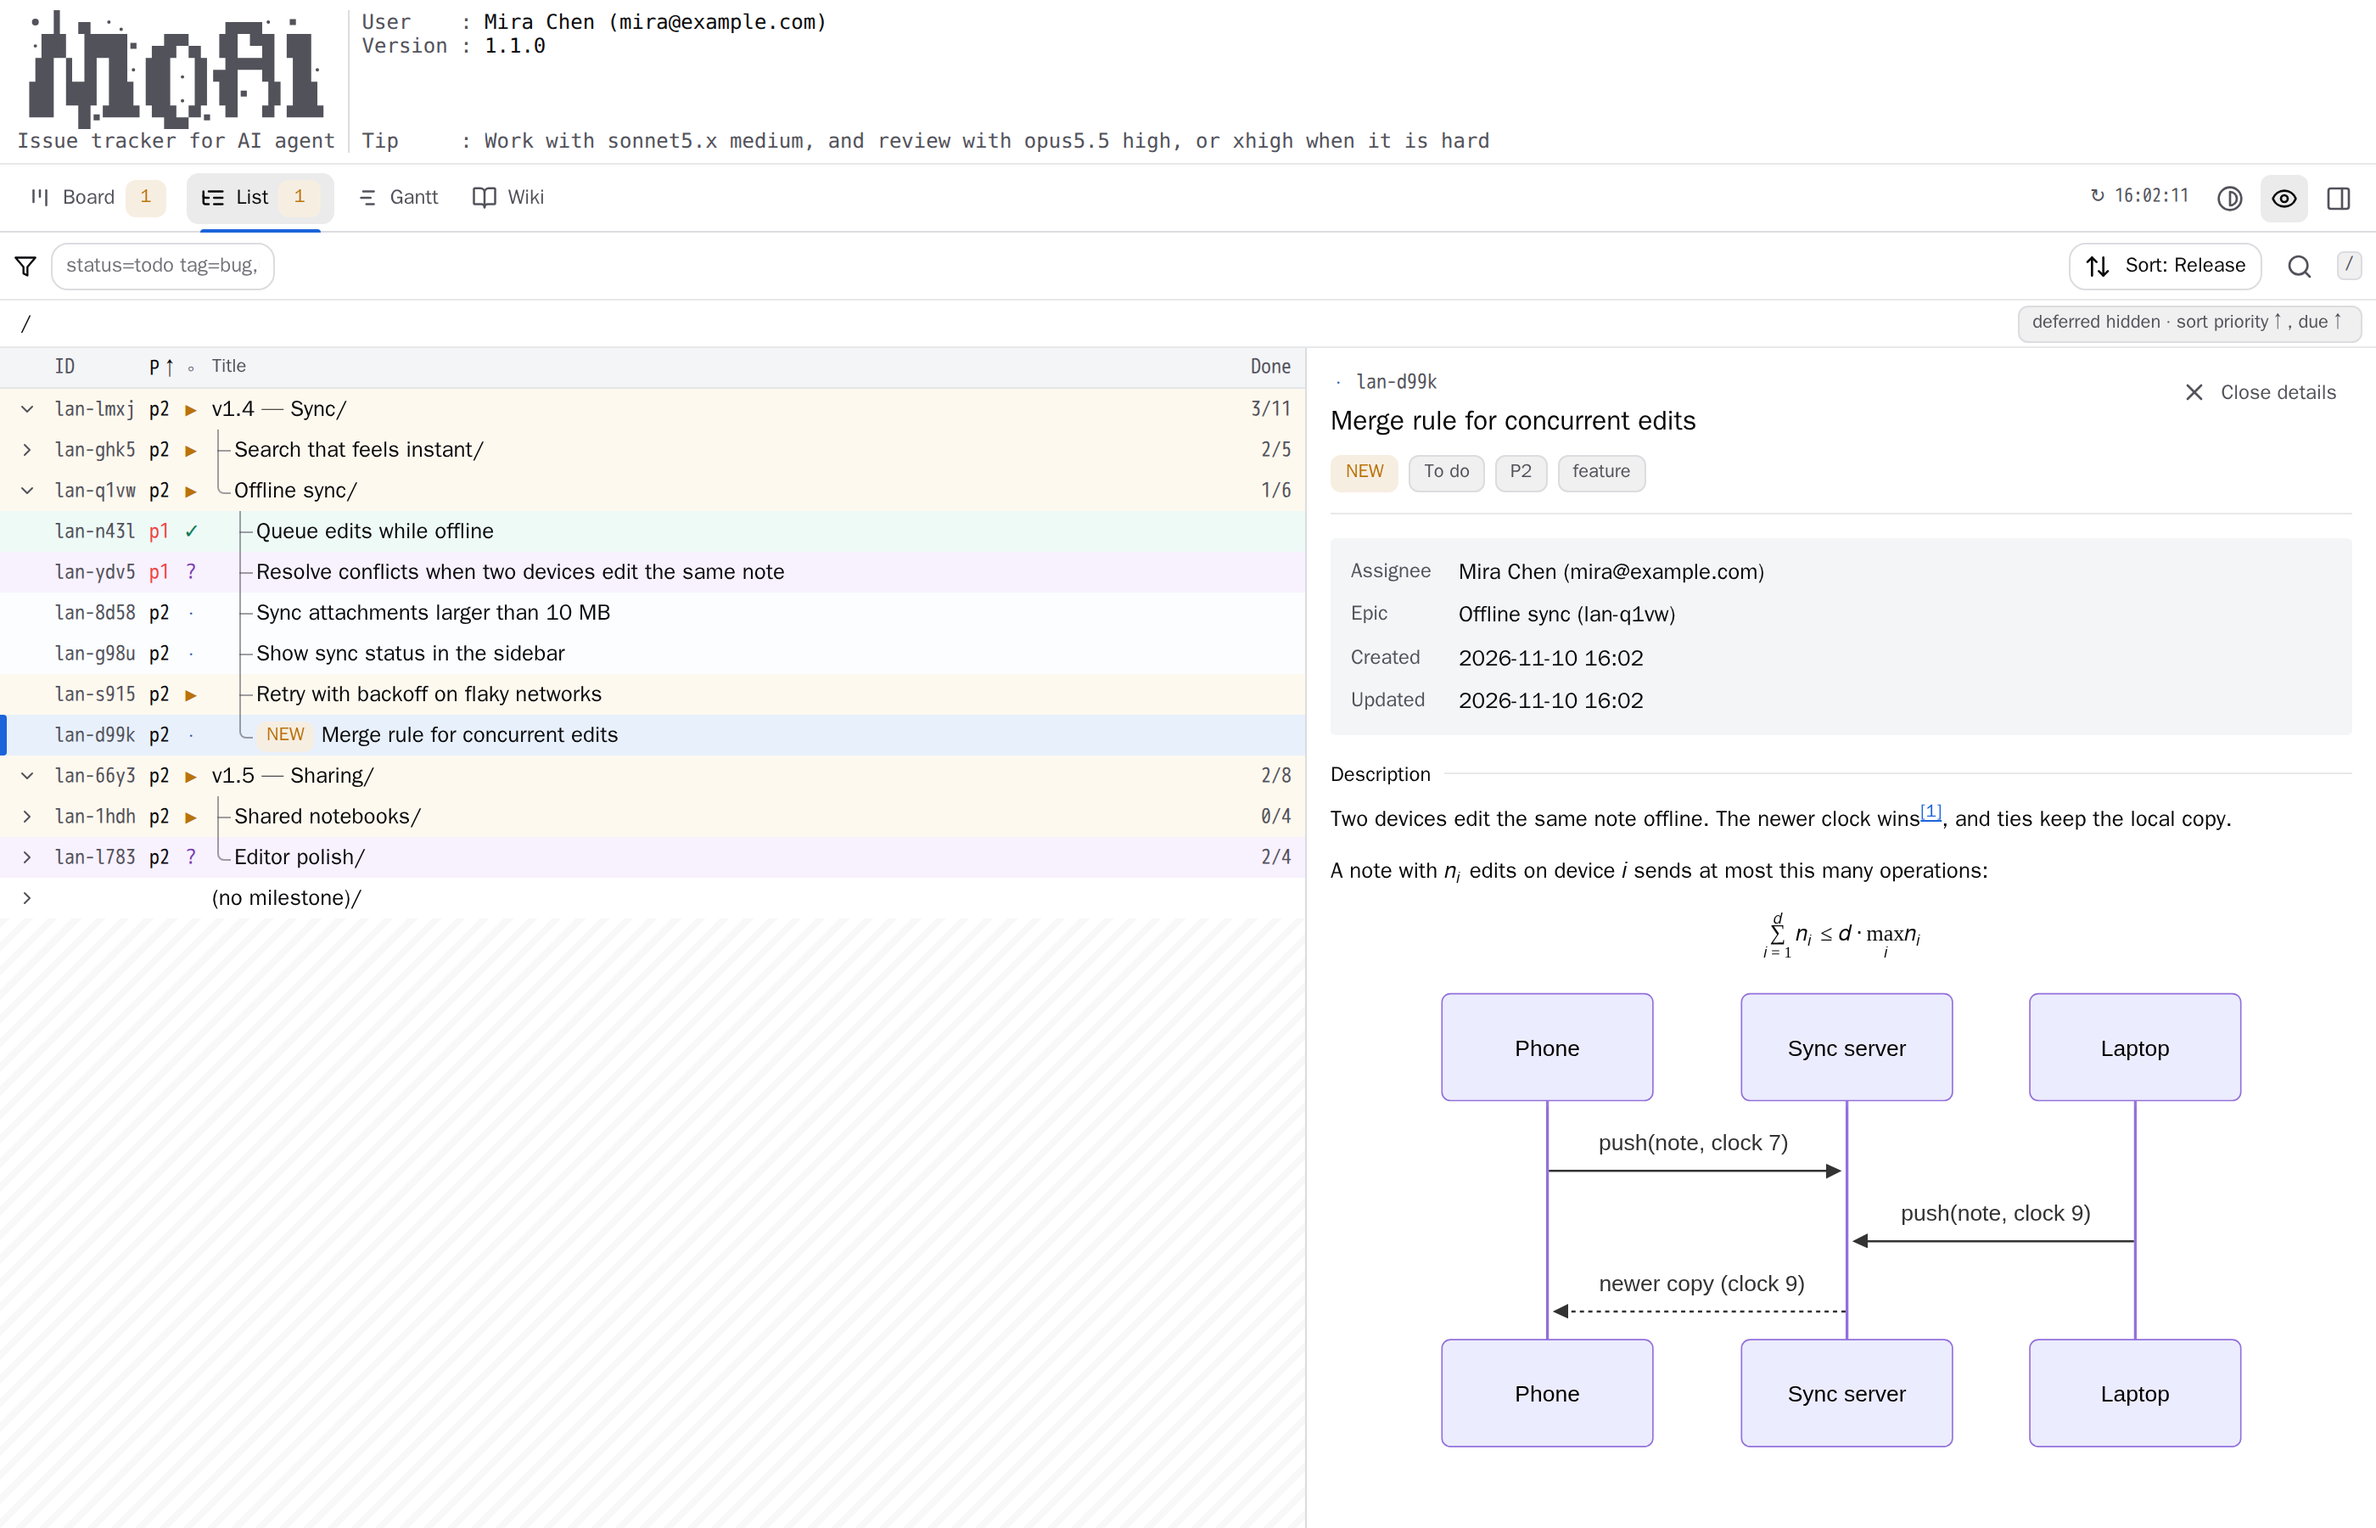
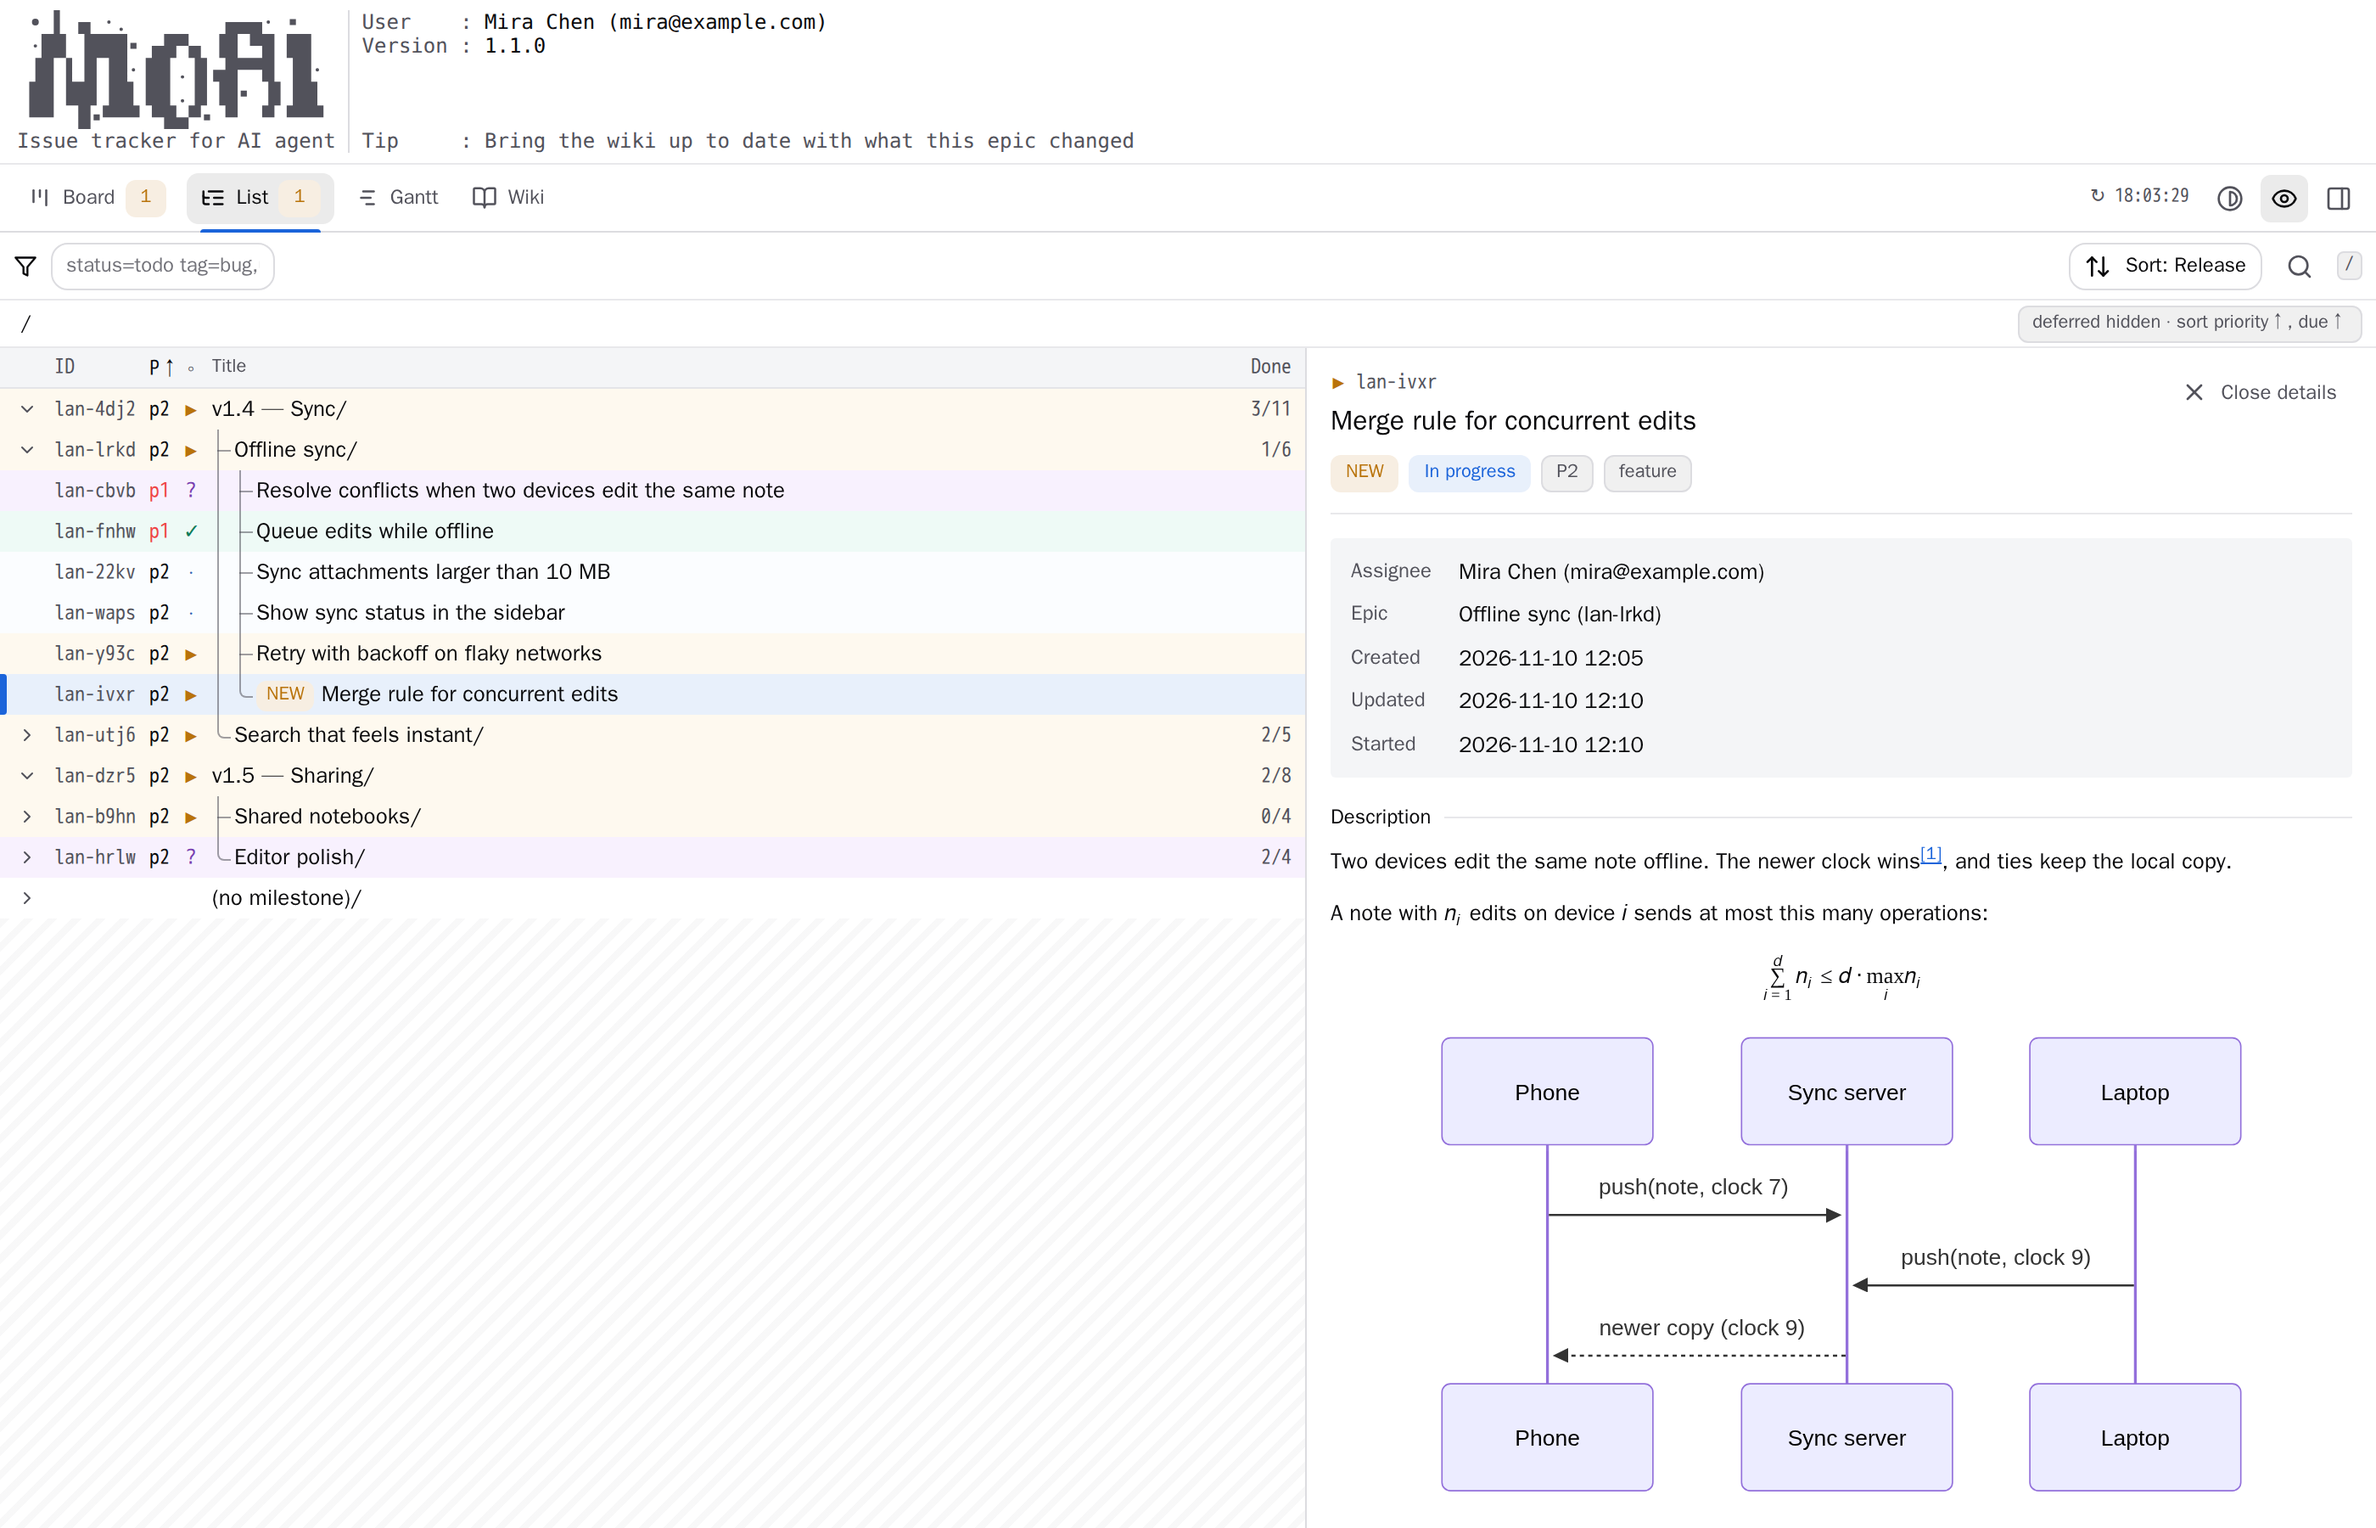
docs(release-posts): show markdown history in v1.1.0 (moai-1f3p.n23)

diff --git a/release-posts/v1.1.0/post.md b/release-posts/v1.1.0/post.md
@@ -1,10 +1,12 @@
 ## moai v1.1.0
 ### What's new
+- Web detail history renders notes as markdown, including footnotes, math, Mermaid, pictures and links
+- Agent guidance now explains the supported markdown and pictures, when to use them, and what terminals show
+- A successful human-facing `moai update` reminds you to run `moai skill install` and `moai init` in each project
 - The web viewer supports footnotes, MathML math, Mermaid diagrams, CJK-friendly emphasis and file snippets in issue bodies and wiki pages
 - The explorer and `moai show` render numbered footnotes, math source and marked Mermaid code blocks
 - `GET /api/snippet` reads a permitted text file or region for the selected checkout, with the shared snippet path and sensitive-file rules
-- Web issue bodies and wiki pages use markdown-it and CommonMark
-- The web page loads third-party markdown and diagram code in `/vendor.js` before its own app bundle
+- …and 2 more in the release notes
 
 Release notes: <https://github.com/buzzni/moai/releases/tag/v1.1.0>
 Update with `moai update` · install: <https://moai.buzzni.com/guide/#install>

diff --git a/release-posts/v1.1.0/media/03-web-history-light.md b/release-posts/v1.1.0/media/03-web-history-light.md
@@ -1,0 +1,1 @@
+History notes render markdown too: a review list, inline code, math and a footnote, with the status move kept as text.
